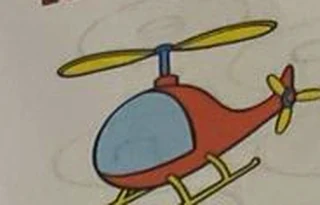
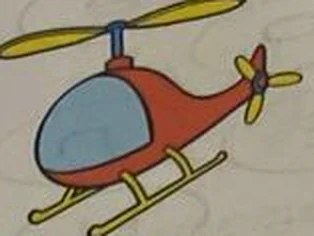
Add English book pictures for M through R

diff --git a/mykid/js/data/bookPics.js b/mykid/js/data/bookPics.js
@@ -4,10 +4,23 @@
 
 /** كلمات كتاب الإنجليزى اللى ليها رسمة من الكتاب */
 export const BOOK_IMG_EN = new Set([
-  // N (صفحة ١١) · I (صفحة ١٣/١٤) · C (صفحة ١٥)
+  // M (ص. ١) · A (ص. ٣) · S (ص. ٥؛ sand من تمرين ص. ٦) · T (ص. ٧) · P (ص. ٩)
+  "man", "mom", "mud",
+  "apple", "ant", "axe",
+  "sand", "sun", "star",
+  "turtle", "toy", "train",
+  "pants", "pen", "pan",
+  // N (ص. ١١) · I (ص. ١٣) · C (ص. ١٥)
   "nest", "night", "numbers",
   "insect", "in", "ink",
   "cloud", "cow", "cap",
+  // F (ص. ١٧) · D (ص. ١٩) · H (ص. ٢١)
+  "frog", "fork",
+  "desk", "dog", "dress",
+  "honey", "heart", "helicopter",
+  // O (تمرين ص. ٢٤) · R (ص. ٢٥)
+  "ostrich", "orange", "octopus",
+  "robot", "rabbit", "rice",
 ]);
 
 /** مسار الرسمة (نسبةً لـ /assets/) أو null لو الكلمة مالهاش رسمة من الكتاب */

diff --git a/mykid/sw.js b/mykid/sw.js
@@ -1,6 +1,6 @@
 // ===== Service Worker: تخزين مؤقت للعمل دون اتصال =====
 // Bump this version whenever cached app code or styles change; static assets are cache-first.
-const CACHE = "safari-kids-v326";
+const CACHE = "safari-kids-v327";
 const ASSETS = [
   "/app",
   "/manifest.webmanifest",

diff --git a/mykid/assets/book/README.md b/mykid/assets/book/README.md
@@ -1,64 +1,24 @@
 # صور كتاب الإنجليزى (Hello! Little Stars)
 
-**المصدر:** صور المالك لصفحات كتاب بنته (٢٠٢٦-١١-١٦) — محفوظة فى `docs/book-photos/english/` (الصفحات ١–٢٧، متعدّلة الاتجاه).
-الرسومات متقصوصة منها فى `en/<الكلمة>.webp` بخلفية شفافة، ومتسجّلة فى `mykid/js/data/bookPics.js`.
+**المصدر:** صور المالك لصفحات كتاب بنته، محفوظة فى `docs/book-photos/english/`.
+قُصّت الرسومات من مربع **Look and write** وحُفظت بصيغة WebP فى `en/<word>.webp`،
+وسُجّلت الكلمات فى `mykid/js/data/bookPics.js`.
 
-| الحرف | الصفحة | الكلمات |
+| الحرف | ملف الصفحة | الكلمات المقصوصة |
 |---|---|---|
-| N | 11 (`p10-11-N`) | nest · night · numbers |
-| I | 13 و14 (`p12-13-I` · `p14-15-C`) | insect · ink · in |
-| C | 15 (`p14-15-C`) | cloud · cow · cap |
+| M | `p01-M.jpg`، ص. ١ | man · mom · mud |
+| A | `p02-03-A.jpg`، ص. ٣ | apple · ant · axe |
+| S | `p04-05-S.jpg`، ص. ٥ (sun · star)؛ `p06-07-T.jpg`، ص. ٦ (تمرين sand) | sand · sun · star |
+| T | `p06-07-T.jpg`، ص. ٧ | turtle · toy · train |
+| P | `p08-09-P.jpg`، ص. ٩ | pants · pen · pan |
+| N | `p10-11-N.jpg`، ص. ١١ | numbers · night · nest |
+| I | `p12-13-I.jpg`، ص. ١٣ | in · ink · insect |
+| C | `p14-15-C.jpg`، ص. ١٥ | cow · cap · cloud |
+| F | `p16-17-F.jpg`، ص. ١٧ | frog · fork |
+| D | `p18-19-D.jpg`، ص. ١٩ | desk · dog · dress |
+| H | `p20-21-H.jpg`، ص. ٢١ | honey · heart · helicopter |
+| O | `p24-25-R.jpg`، ص. ٢٤ (تمرين) | ostrich · orange · octopus |
+| R | `p24-25-R.jpg`، ص. ٢٥ | robot · rabbit · rice |
 
-الكلمات اللى عندنا ومش فى الكتاب صورها فاضلة إيموجى (قرار المالك).
-
----
-
-## بحث ريبليت أونلاين (قبل صور المالك)
-
-## Result
-
-The exact Egyptian KG English book titled **Hello! Little Stars** and its
-Phonics pages for N, I, and C could not be verified in the public results
-checked for this task. No page images were confirmed to belong to that book,
-so no picture crops or page screenshots were created. No replacement or
-generated pictures were used.
-
-## Search terms
-
-- `Hello Little Stars KG1 pdf Egypt`
-- `Hello! Little Stars kindergarten English book Egypt pdf`
-- `هالو ليتل ستارز كى جى`
-- `ministry of education Egypt KG English book`
-- `Hello! Little Stars KG Egypt book`
-- `Hello! Little Stars phonics book KG1`
-- `Hello! Little Stars N I C phonics pages`
-- `Hello! Little Stars in ink insect cow cap cloud`
-
-## URLs checked in search results
-
-- https://dmgpublisher.com/Books/Details/26 — **Little Stars Student Book A**,
-  listed as KG 1 by New Horizon. The title shown omits “Hello!”, so this was
-  not treated as the requested book; the N/I/C pages could not be confirmed.
-- https://elearnningcontent.blob.core.windows.net/elearnningcontent/2026/KG/KG1/Term1/StudentBook/English_KG1_Tr1.pdf —
-  Egypt Ministry of Education KG1 English textbook for 2025/2026, a different
-  title and not the requested book.
-- https://elearnningcontent.blob.core.windows.net/elearnningcontent/2026/KG/KG2/Term1/StudentBook/English_KG2_Tr1.pdf —
-  Egypt Ministry of Education KG2 English textbook for 2025/2026, also a
-  different title.
-- https://edu2-egypt.com/kg1-2 — KG textbook catalog/search result; it did not
-  identify the requested title or provide its Phonics pages.
-
-## Page and word results
-
-No N, I, or C Phonics page from **Hello! Little Stars** was located or
-verified. Consequently, no crop can be attributed to a source page.
-
-| Letter | Requested words | Found in verified page | Missing / unverified |
-| --- | --- | --- | --- |
-| N | numbers, night, nest | None | numbers, night, nest |
-| I | in, ink, insect | None | in, ink, insect |
-| C | cow, cap, cloud | None | cow, cap, cloud |
-
-To make exact book-matched crops, provide scans or photos of the book's N, I,
-and C Phonics pages. The existing app pictures should remain unchanged until
-those page illustrations can be checked.
+كلمة `fan` غير موجودة فى صفحة F؛ تظل بإيموجى. لم تُقصّ صورة `fish`.
+أي كلمة أخرى فى التطبيق لا تظهر فى هذه القائمة تحتفظ بصورتها الحالية.
